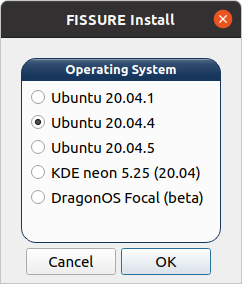
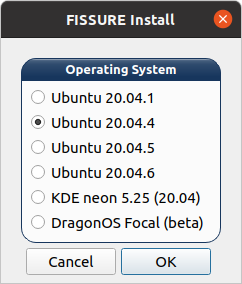
Updating software sizes and fixing Python3_maint-3.8 installation

diff --git a/CHANGELOG.md b/CHANGELOG.md
@@ -1,6 +1,25 @@
 # Change Log
 All notable changes to this project will be documented in this file.
 
+## 2023-03-29
+
+Updating software sizes and fixing Python3_maint-3.8 installation.
+ 
+### Added
+
+- 20.04.6 to the installer and README (same steps as 20.04.4)
+  
+### Changed
+
+- Updated Python3_maint-3.8 software sizes for the installer
+- Commented out gr-osmosdr from source in the installer for Python3_maint-3.8 branch and changed verify command
+
+### Fixed
+
+- ESP32 BT Classic Sniffer install for Python3_maint-3.8 branch (Wireshark version is now 4.0.3)
+- radiosonde_auto_rx dependency python3-flask influenced pip through python3-openssl and is now commented out (fixes: sudo apt-get remove python3-openssl or delete /usr/lib/python3/dist-packages/OpenSSL)
+- QSpectrumAnalyzer and Universal Radio Hacker install for Python3_maint-3.8 branch as a result of pip being corrupted by python3-flask/python3-openssl (see previous line)
+
 ## 2023-03-26
 
 Preparing for Archive collections.

diff --git a/README.md b/README.md
@@ -35,6 +35,7 @@ Operating System            |  FISSURE Branch
 | Ubuntu 20.04.1 (x64) | Python3_maint-3.8 |
 | Ubuntu 20.04.4 (x64) | Python3_maint-3.8 |
 | Ubuntu 20.04.5 (x64) | Python3_maint-3.8 |
+| Ubuntu 20.04.6 (x64) | Python3_maint-3.8 |
 | KDE neon 5.25 (x64) | Python3_maint-3.8 |
 | Ubuntu 22.04 (x64) | Python3_maint-3.10 |
 
